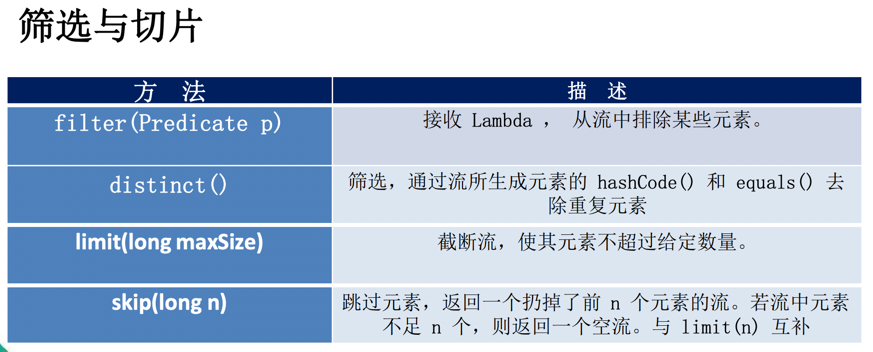
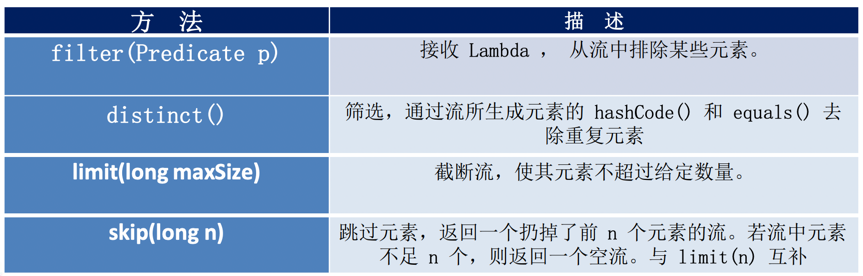
stream end operate

diff --git a/Basic/Java8.md b/Basic/Java8.md
@@ -152,7 +152,40 @@ stream4.forEach(System.out::println);
 ```
 
 ###Stream的中间操作
-多个中间操作可以连接起来形成一个流水线，除非流水线上触发终止操作，否则中间操作不会执行任何的处理！而在终止操作时一次性全部处理，称为“惰性求值”。
+####筛选与切片
 ![](筛选与切片.png)
+####映射
 ![](映射.png)
+####排序
 ![](排序.png)
+多个`中间操作`可以连接起来形成一个`流水线`，除非流水线上触发终止操作，否则`中间操作不会执行任何的处理`！而在终止操作时一次性全部处理，称为**惰性求值**。
+```java
+//未出现终止操作，所有的中间操作不会做任何的处理，即下列语句无输出
+Stream<Employee> stream = emps.stream()
+        .filter((e) -> {
+        System.out.println("测试中间操作");
+        return e.getAge() <= 35;
+        });
+```
+```java
+Stream<Employee> stream = emps.stream()
+        .filter((e) -> {
+            System.out.println("测试中间操作");
+            return e.getAge() <= 35;
+        });
+
+//出现终止操作，所有的中间操作会一次性的全部执行，称为“惰性求值”
+stream.forEach(System.out::println);
+```
+
+###Stream的终止操作
+####查找与匹配
+![](查找与匹配1.png)
+![](查找与匹配2.png)
+####规约（约简）
+![](规约.png)
+####收集
+![](收集.png)
+>######Collectors实用类提供了很多静态方法，可以方便地创建常见收集器实例
+>![](Collectors静态方法1.png)
+>![](Collectors静态方法2.png)
